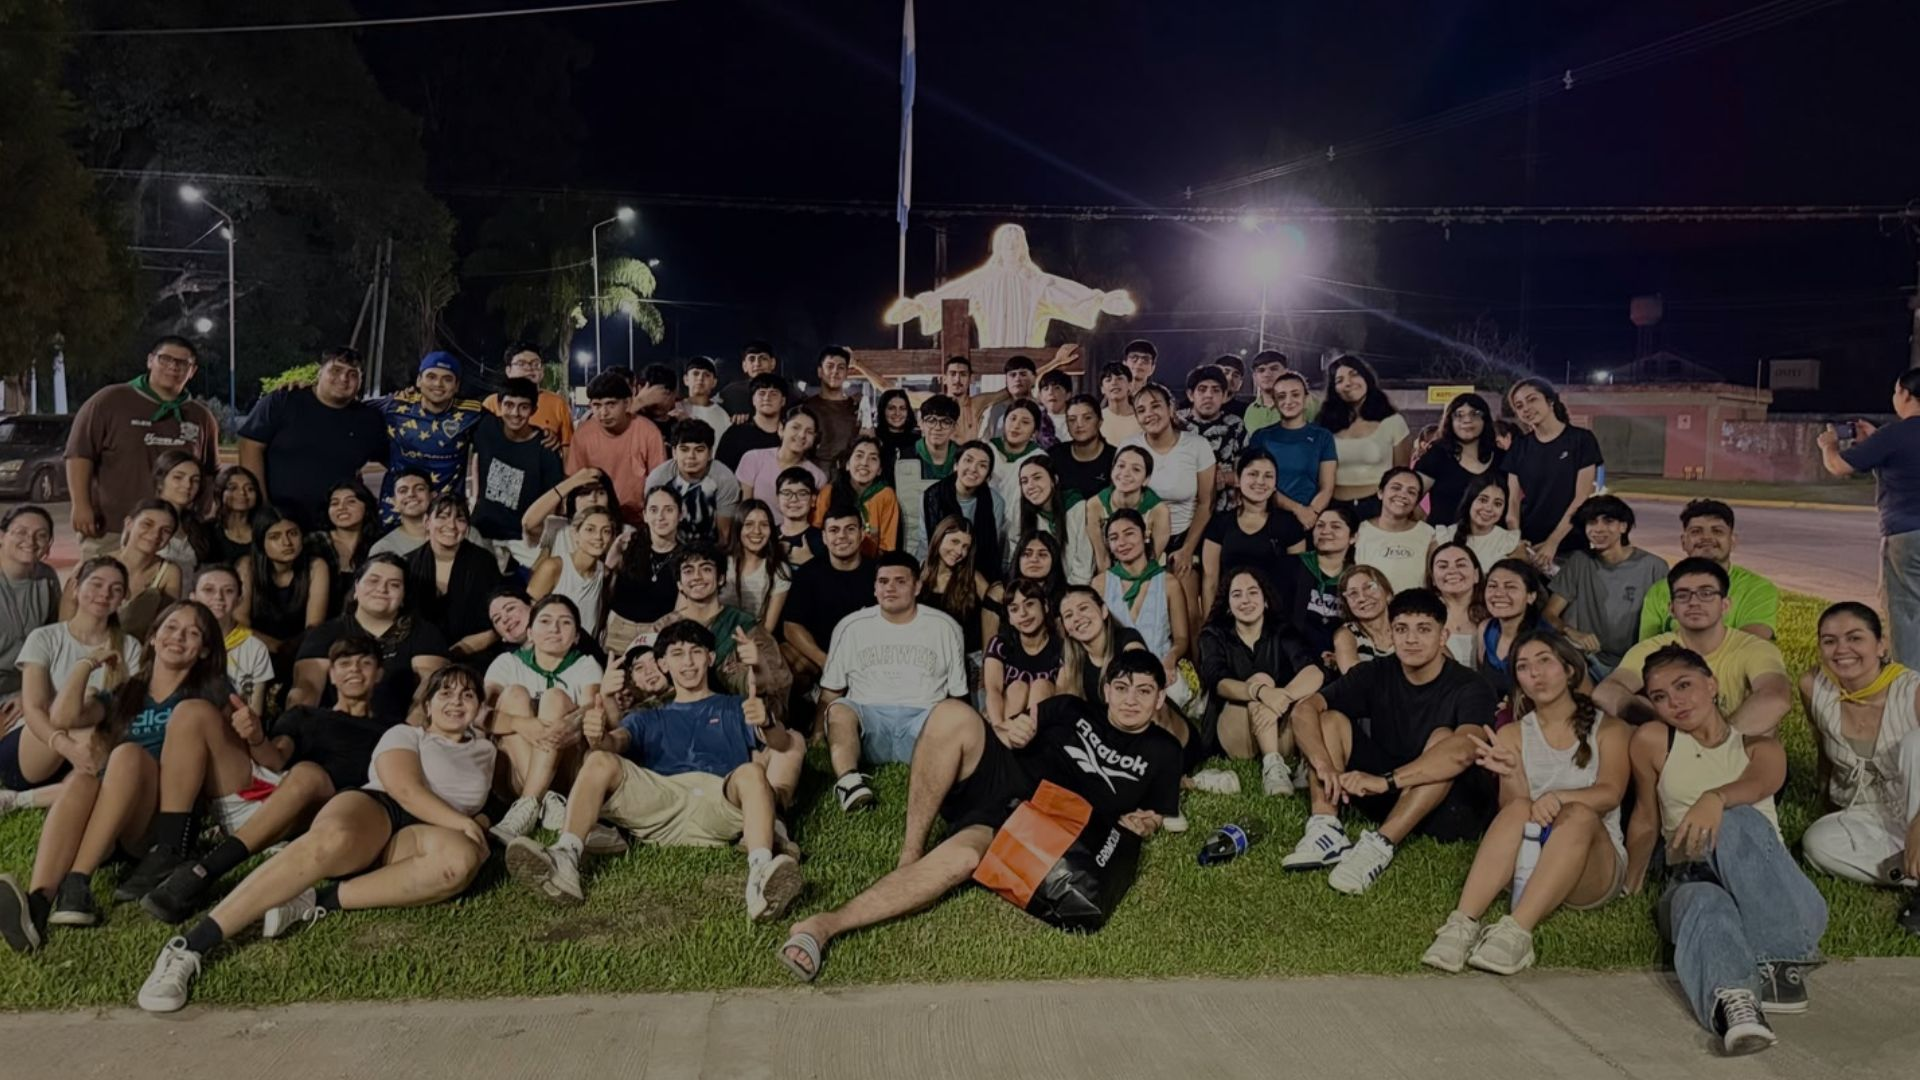
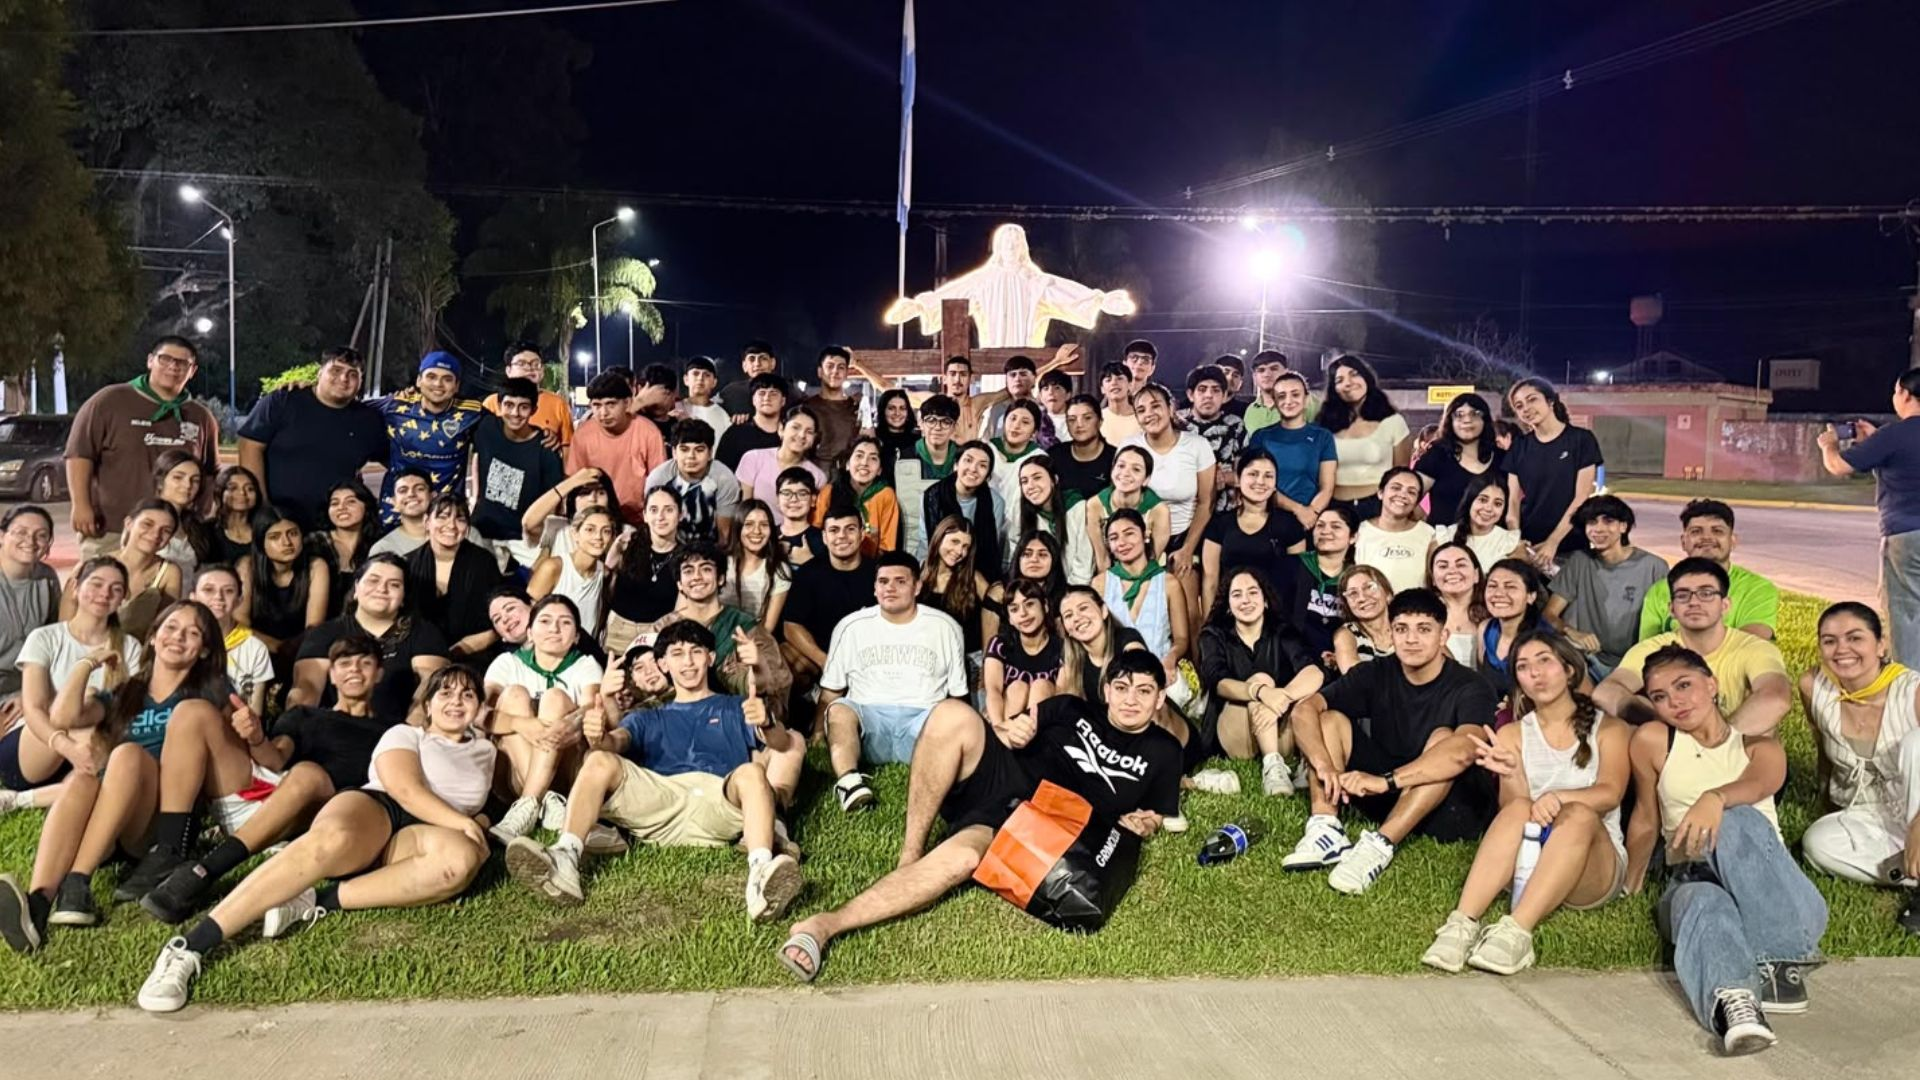
Ajustes modo oscuro: fondo, tarjetas y capo

diff --git a/src/App.css b/src/App.css
@@ -29,25 +29,21 @@
   color-scheme: dark;
   --mcm-blue: #b8ecff;
   --mcm-blue-dark: #d4f4ff;
-  --mcm-blue-light: rgba(184, 236, 255, 0.14);
   --bg: #0a1218;
-  --surface: rgba(18, 28, 38, 0.96);
+  --surface: #162230;
   --surface-solid: #162230;
   --text: #ffffff;
   --text-muted: rgba(255, 255, 255, 0.78);
   --border: rgba(184, 236, 255, 0.28);
-  --bg-overlay: rgba(8, 14, 20, 0.88);
+  --bg-overlay: rgba(12, 20, 28, 0.7);
   --shadow: 0 4px 20px rgba(0, 0, 0, 0.35);
   --shadow-hover: 0 8px 28px rgba(0, 0, 0, 0.45);
-  --surface-hover: rgba(184, 236, 255, 0.12);
+  --surface-hover: #243448;
   --surface-elevated: #1f3040;
+  --mcm-blue-light: #1e3344;
   --accent-soft: rgba(255, 217, 102, 0.14);
   --danger-hover-bg: rgba(192, 57, 43, 0.22);
   --heading: #ffffff;
-}
-
-:root[data-theme='dark'] body::before {
-  opacity: 0.28;
 }
 
 :root[data-theme='dark'] .btn-ghost,
@@ -129,6 +125,18 @@
 
 :root[data-theme='dark'] .key-shift-value {
   color: #ffffff;
+}
+
+:root[data-theme='dark'] .moment-card:hover,
+:root[data-theme='dark'] .category-card:hover,
+:root[data-theme='dark'] .song-list-item button:hover {
+  background: var(--surface-hover);
+  border-color: var(--mcm-blue);
+}
+
+:root[data-theme='dark'] .moment-count {
+  background: #1e3344;
+  color: var(--mcm-blue);
 }
 
 :root[data-theme='dark'] .song-content,
